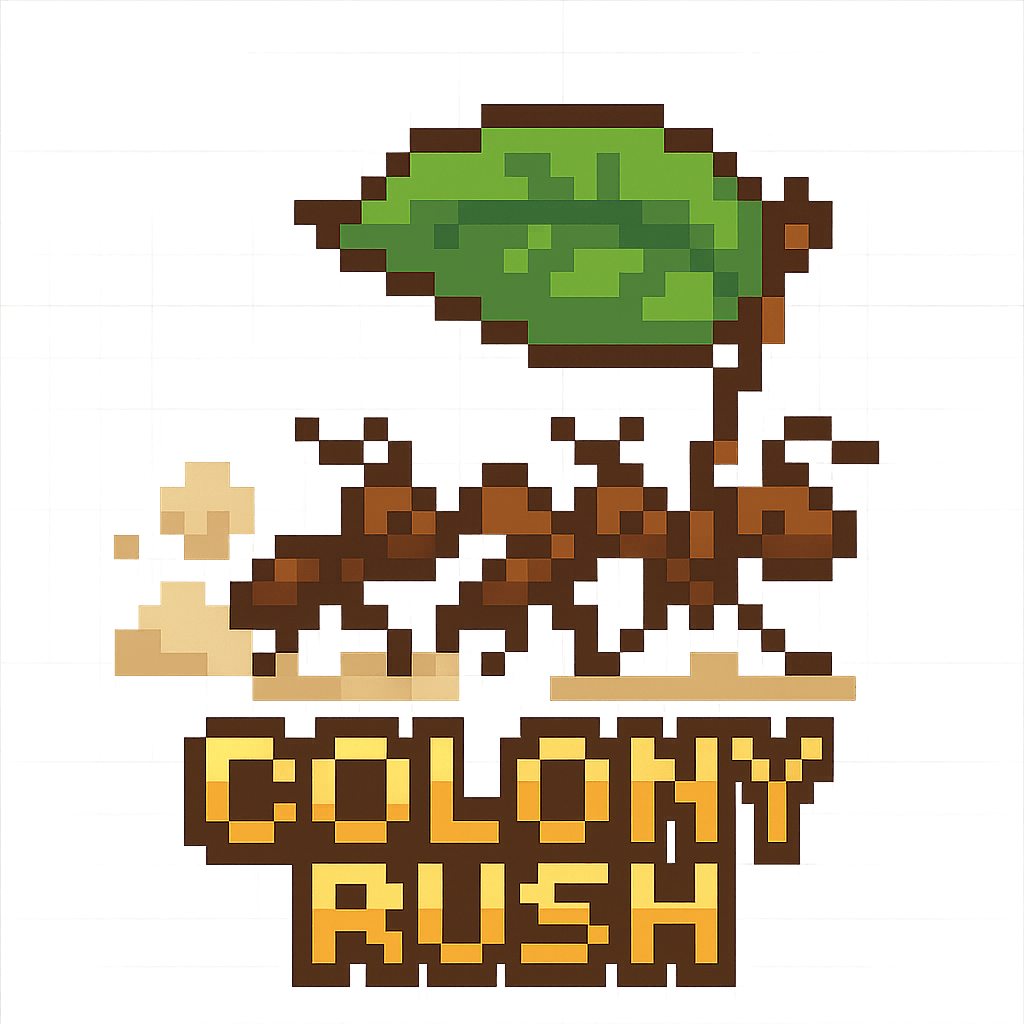
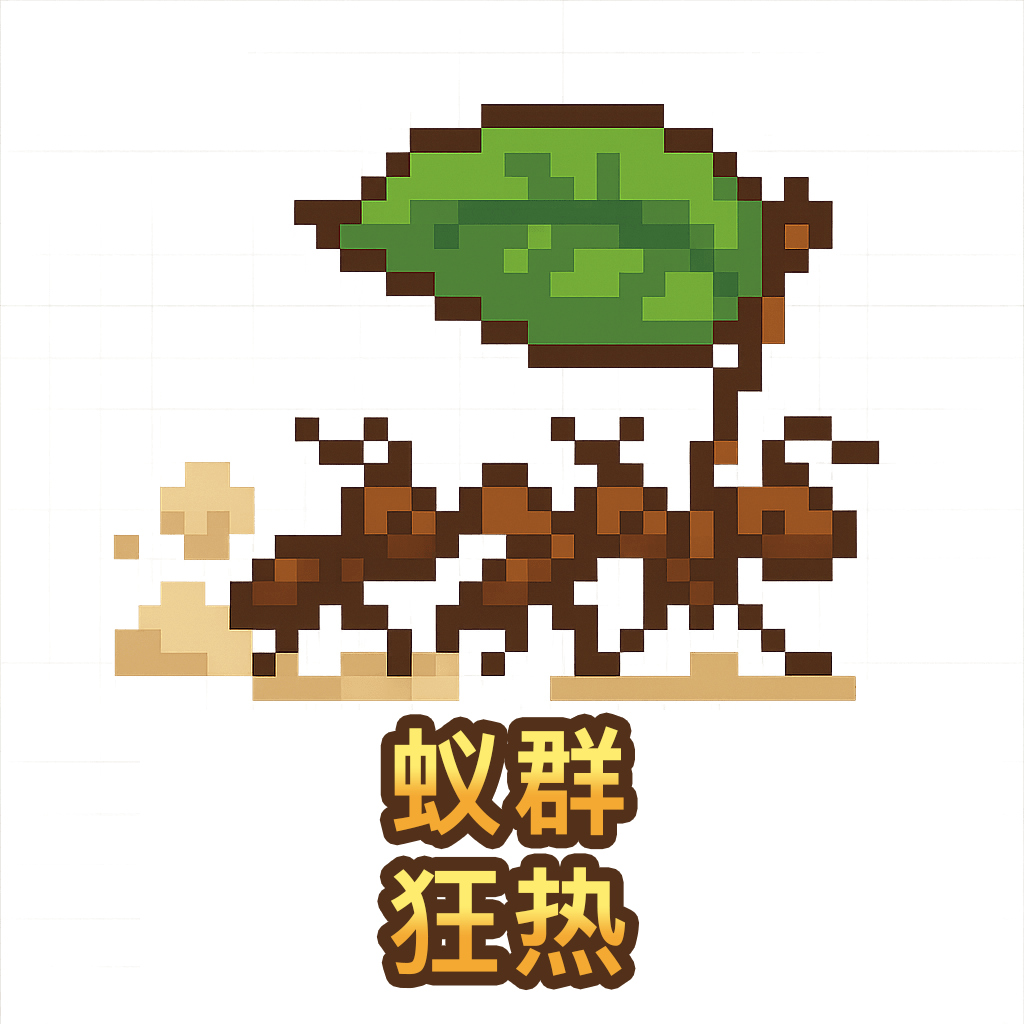
hh

Changed region(s): [[0.1562, 0.6875, 0.8125, 0.9688]]

diff --git a/chs.js b/chs.js
@@ -607,7 +607,7 @@ var cnItems = {
     "Auto Salvage": "自动回收",
     "Boosts worker ants by 5%, nurseries by 2.5%, and EP gain by 20% per level": "每升一级增加工蚁5%，苗圃2.5%，EP增加20%",
     "Colony level and title": "蚁群等级和头衔",
-    "Colony Rush": "蚁群冲锋",
+    "Colony Rush": "蚁群狂热",
     "Each evolution unlocks new technologies, ant types, and game mechanics.": "每次进化都会开启新的技术、蚂蚁类型和游戏机制。",
     "Evolution Points (EP) and all bonuses from them": "进化点数（EP）及其所有奖励",
     "Evolving resets most of your progress, including resources, structures, adaptations, and more.": "进化重置了你的大部分进度，包括资源、结构、改造等等。",
@@ -629,7 +629,7 @@ var cnItems = {
     "Reduces worker level-up requirements by 15% per level": "每升一级减少15%的工蚁升级要求",
     "Research and technology": "研究与技术",
     "Swift Progression": "迅速发展",
-    "Unlock the Colony Rush ability, allowing you to skip ahead 30 seconds of production time. Limited to 50 uses per day with a cooldown period between uses.": "解锁蚁群冲锋技能，让你提前30秒生产时间。每天限制使用50次，每次使用之间有冷却时间。",
+    "Unlock the Colony Rush ability, allowing you to skip ahead 30 seconds of production time. Limited to 50 uses per day with a cooldown period between uses.": "解锁蚁群狂热技能，让你提前30秒生产时间。每天限制使用50次，每次使用之间有冷却时间。",
     "Unlocked achievements": "解锁成就",
     "What Resets:": "重置:",
     "What You Keep:": "你保留的东西：",
@@ -883,16 +883,16 @@ var cnItems = {
     "Divides the cost of queen chambers by 1e6 per level": "每级将蚁后室的费用除以1e6",
     "Equipment Mastery": "装备精通",
     "Exponential Evolution": "指数进化",
-    "Extended Rush": "延长冲锋",
+    "Extended Rush": "延长狂热",
     "Grand Colony Synergy": "大型蚁群协同",
     "Hive Mind": "蚁穴思维",
     "Hive Mind Self-Replication": "蚁穴思维自我复制",
     "Hive Minds have a 1% chance per level to reproduce themselves each tick (max 5%)": "蚁穴思维每级有1%的几率复制自己（最多5%）",
     "hivemind:": "蚁穴思维:",
-    "Increases Colony Rush duration by 10 seconds per level.": "每升一级增加蚁群冲锋持续时间10秒。",
+    "Increases Colony Rush duration by 10 seconds per level.": "每升一级增加蚁群狂热持续时间10秒。",
     "Increases Evolution Points gained per cycle exponentially": "以指数方式增加每个周期获得的进化点",
     "Increases food production by 20% per level": "每升一级增加20%的粮食产量",
-    "Increases maximum Colony Rushes per day by 2 per level.": "每级增加每天2点的最大蚁穴冲锋。",
+    "Increases maximum Colony Rushes per day by 2 per level.": "每级增加每天2点的最大蚁穴狂热。",
     "Increases the chance to get a double kill in adventure mode, giving you a better chance to get the items you want.": "增加在冒险模式中获得双杀的机会，让你有更好的机会获得你想要的物品。",
     "Increases the chance to re-roll items from defeated bugs in adventure mode, giving you a better chance to get the items you want.": "提升冒险模式中从被击败的虫子身上重新掷出物品的概率，让你更容易获得想要的物品。",
     "Increases the effect of the double kill in adventure mode, increases the quantity of bugs killed in a double kill.": "增加冒险模式中双杀的效果，增加双杀中杀死的虫子数量。",
@@ -911,8 +911,8 @@ var cnItems = {
     "Reduces level-up requirements for high-tier generators by 25% per level": "每升一级降低高级生成器25%的升级要求",
     "Reduces the cooldown between Colony Rushes by 2 foraging trips per level.": "每升1级减少2觅食时间。",
     "Reproduction Nexus": "繁殖中枢",
-    "Rush Capacity": "冲锋容量",
-    "Rush Efficiency": "冲锋效率",
+    "Rush Capacity": "狂热容量",
+    "Rush Efficiency": "狂热效率",
     "Unlock an additional equipment slot. Each level unlocks one more slot, up to a maximum of 10 slots.": "解锁一个额外的装备插槽。每级解锁1个槽位，最多解锁10个槽位。",
     "Upgrade not yet unlocked": "升级尚未解锁",
     "Auto-purchase:": "自动购买:",
@@ -991,7 +991,7 @@ var cnItems = {
     "Can't Afford": "负担不起",
     "Collect Food Progress": "收集食物进度",
     "Collect Pheromone Progress": "收集信息素进度",
-    "Colony Rush activated! Processing 40 seconds of game time...": "蚁群冲锋已激活！正在处理40秒的游戏时间...",
+    "Colony Rush activated! Processing 40 seconds of game time...": "蚁群狂热已激活！正在处理40秒的游戏时间...",
     "Bonus from Pheromone Shop.": "来自信息素商店的加成",
     "Nursery Mastery": "苗圃精通",
     "Worker Planet": "工蚁星球",
@@ -1613,6 +1613,60 @@ var cnItems = {
     "": "",
     "": "",
     "": "",
+    "": "",
+    "": "",
+    "": "",
+    "": "",
+    "": "",
+    "": "",
+    "": "",
+    "": "",
+    "": "",
+    "": "",
+    "": "",
+    "": "",
+    "": "",
+    "": "",
+    "": "",
+    "": "",
+    "": "",
+    "": "",
+    "": "",
+    "": "",
+    "": "",
+    "": "",
+    "": "",
+    "": "",
+    "": "",
+    "": "",
+    "": "",
+    "": "",
+    "": "",
+    "": "",
+    "": "",
+    "": "",
+    "": "",
+    "": "",
+    "": "",
+    "": "",
+    "": "",
+    "": "",
+    "": "",
+    "": "",
+    "": "",
+    "": "",
+    "": "",
+    "": "",
+    "": "",
+    "": "",
+    "": "",
+    "": "",
+    "": "",
+    "": "",
+    "": "",
+    "": "",
+    "": "",
+    "": "",
     "ESS:": "ESS:",
     "antopolis": "antopolis",
     "TTK:": "TTK:",
@@ -2093,7 +2147,7 @@ var cnRegReplace = new Map([
     [/^Fed (.+) pheromone essence to the Mega Ant, potential XP: (.+)$/, '给 超级蚂蚁 喂食 $1 信息素精华，潜在经验值: $2'],
     [/^Level requirements reduced by (.+) from prestige upgrades.$/, '来自声望升级的等级需求降低 $1。'],
     [/^Have (.+) queen chambers$/, '拥有 $1 蚁后室'],
-    [/^Colony Rush activated! Processing (.+) seconds of game time...$/, '蚁群冲锋激活！正在处理 $1 秒的游戏时间...'],
+    [/^Colony Rush activated! Processing (.+) seconds of game time...$/, '蚁群狂热激活！正在处理 $1 秒的游戏时间...'],
     [/^kill bonus: (.+) food and (.+) Pheromone Essence!$/, '击杀奖励：$1 食物 和 $2 信息素精华！'],
     [/^Re-roll successful! Gained (.+)!$/, '重掷成功！获得 $2！'],
     [/^DOUBLE KILL! \((.+)x multiplier\)$/, '双杀! ($1 乘数)'],
@@ -2105,7 +2159,7 @@ var cnRegReplace = new Map([
     [/^Food Production (.+) per level above (.+)$/, '$2 级以上每级 $1 食物生产'],
     [/^All Generators (.+) per level above (.+)$/, '$2 级以上每级 $1 全部生成器'],
     [/^Pheromone Gain (.+) per level above (.+)$/, '$2 级以上每级 $1 信息素增益'],
-    [/^Activate Colony Rush to skip (.+) seconds ahead!$/, '激活蚁群冲锋，前方跳过 $1 秒！'],
+    [/^Activate Colony Rush to skip (.+) seconds ahead!$/, '激活蚁群狂热，前方跳过 $1 秒！'],
     [/^Colony Production (.+) per level$/, '每级 $1 蚁群生产'],
     [/^Megacolony Production (.+) per level$/, '每级 $1 超级蚁群生产'],
     [/^Hivemind Production (.+) per level$/, '每级 $1 蚁穴思维生产'],
@@ -2230,7 +2284,7 @@ var cnRegReplace = new Map([
     [/^\+([\d\.]+)\% to all stats$/, '全部属性 \+$1\%'],
     [/^\+([\d\.]+)\% to all production and special modifiers$/, '全部生产和特殊词缀 \+$1\%'],
     [/^\+([\d\.]+) seconds duration$/, '持续时间 \+$1 秒'],
-    [/^\+([\d\.]+) max rushes per day$/, '每天最大冲锋上限 \+$1'],
+    [/^\+([\d\.]+) max rushes per day$/, '每天最大狂热上限 \+$1'],
     [/^\+([\d\.]+) base queen chamber production$/, '基础蚁后室生产 \+$1'],
     [/^\+([\d\.]+) base nursery production$/, '基础苗圃生产 \+$1'],
     [/^\+([\d\.]+) base colony production$/, '基础蚁群生产 \+$1'],
